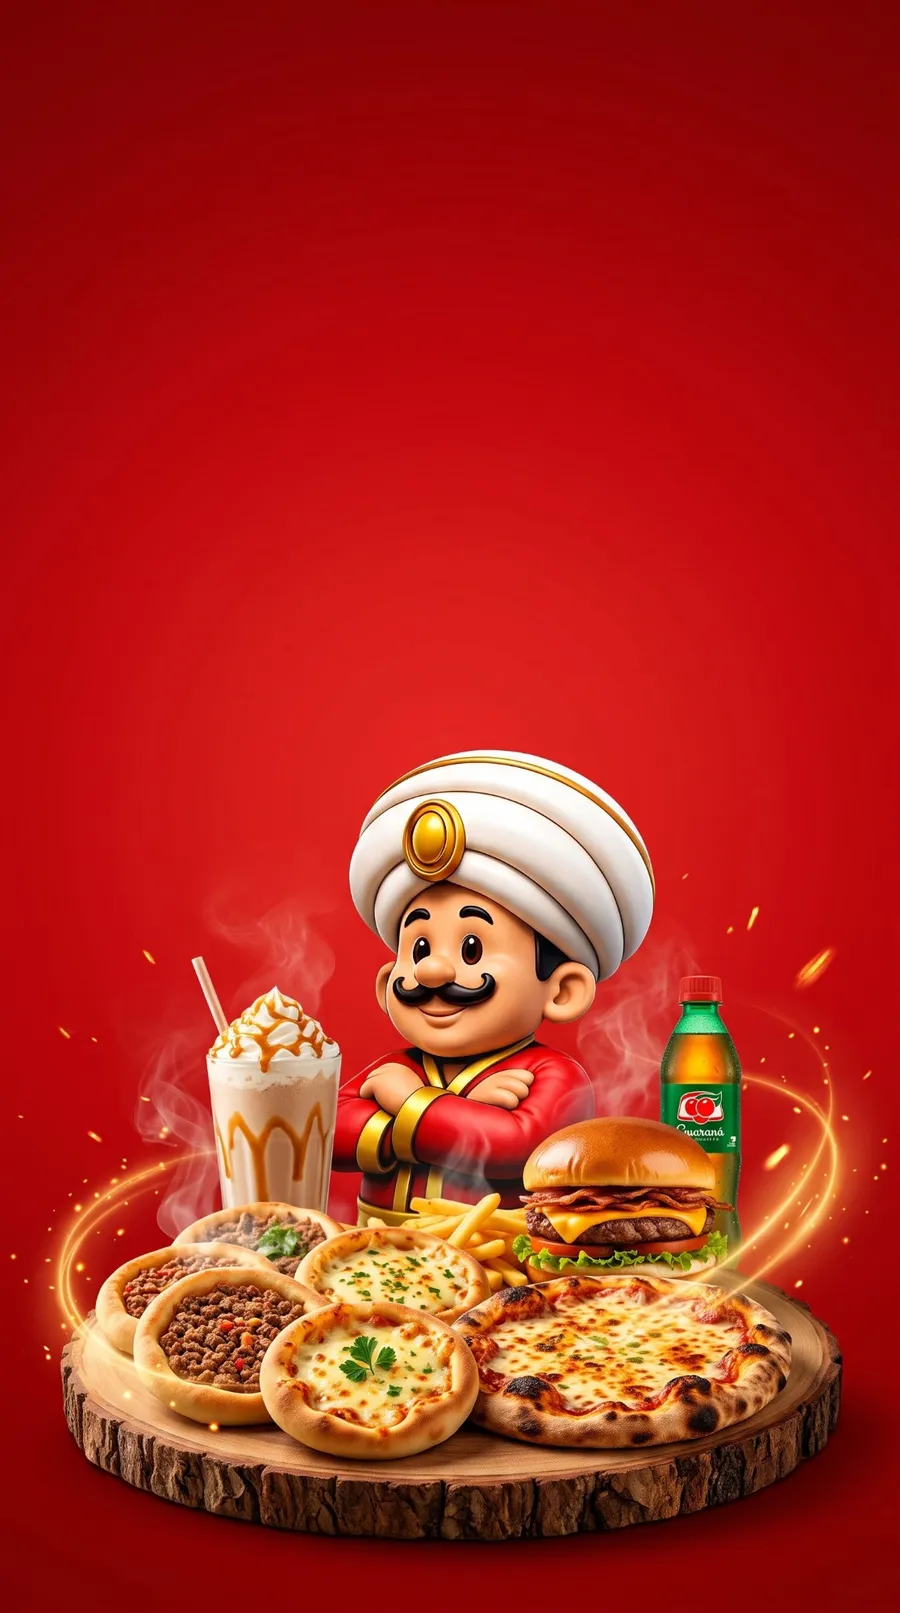
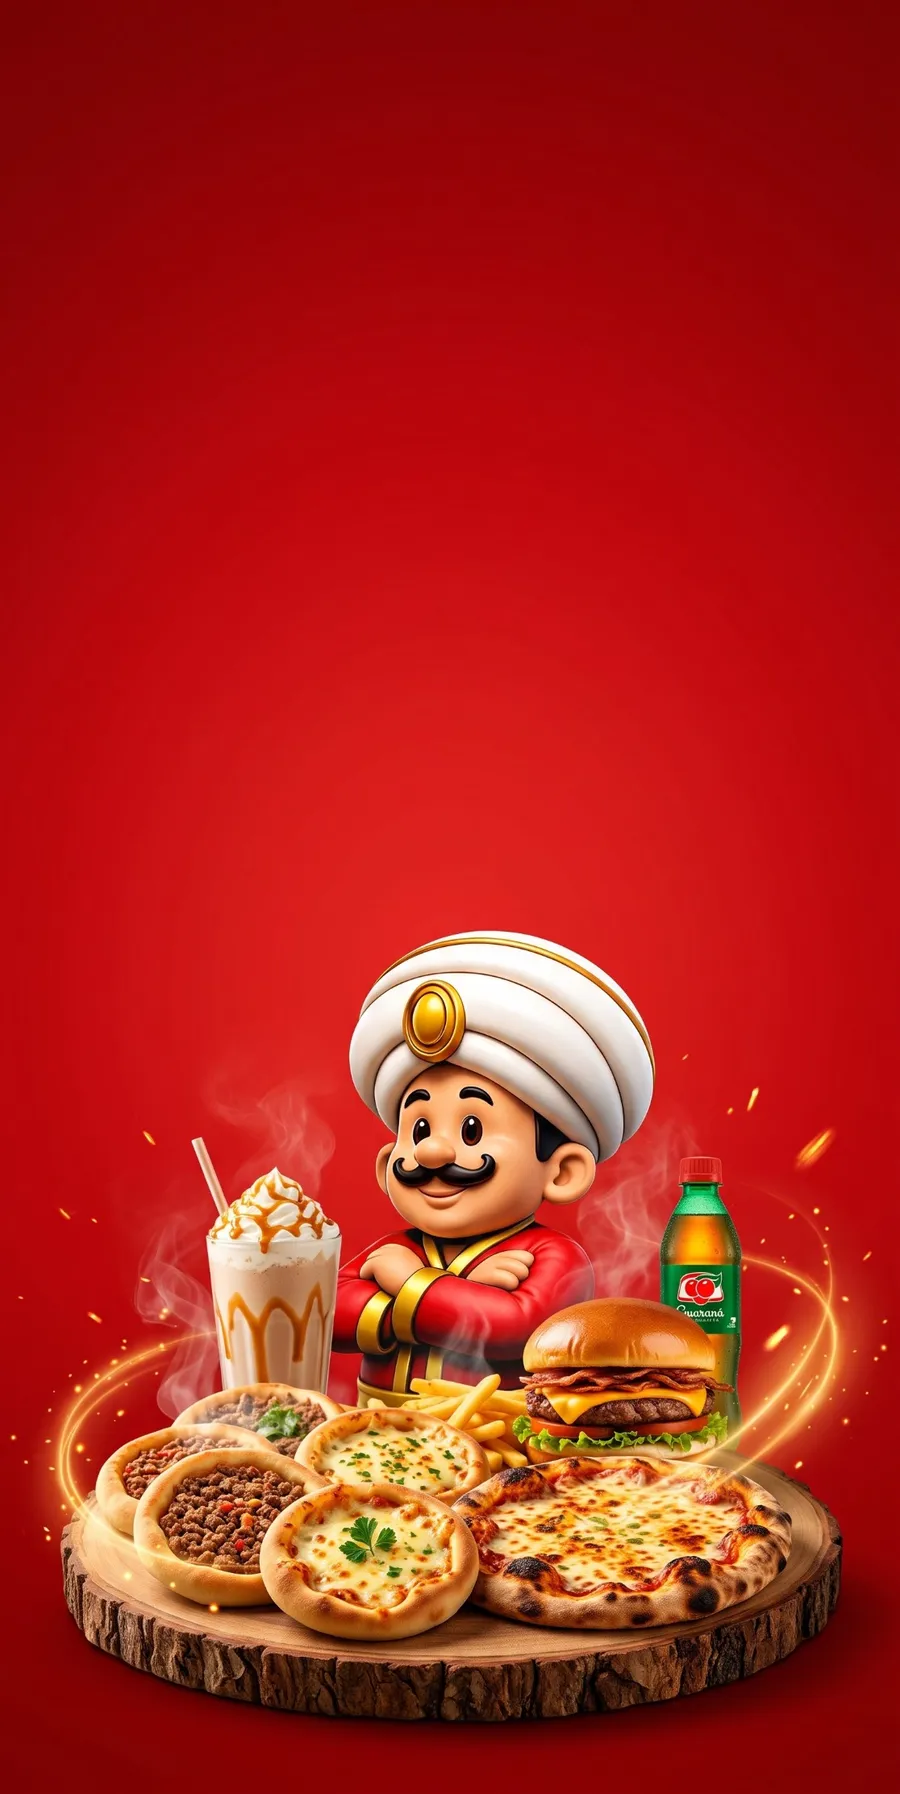
Topo do celular com mais respiro: vermelho de cima da arte esticado, sem emenda
Claude-Session: https://claude.ai/code/session_01Mef7ektEvz1H9wndxGszfe

Changed region(s): [[0.0311, 0.465, 0.9644, 0.9609], [0.8089, 0.558, 0.84, 0.589]]

diff --git a/src/components/site/Hero.tsx b/src/components/site/Hero.tsx
@@ -24,7 +24,7 @@ export function Hero() {
           src={heroMesaMobile}
           alt="O gênio da Rede da Esfiha de braços cruzados atrás de uma tábua com esfihas, pizza, hambúrguer, batata frita, milkshake e refrigerante"
           width={900}
-          height={1613}
+          height={1794}
           fetchPriority="high"
           className="absolute inset-0 h-full w-full object-cover object-bottom md:left-auto md:right-0 md:w-auto md:max-w-none md:object-contain md:[mask-image:linear-gradient(to_right,transparent,black_18%)]"
           // zoom out lento ao abrir a página: a arte começa aproximada e vai se afastando
@@ -44,7 +44,7 @@ export function Hero() {
         <path d="M0 60 L0 30 Q720 -20 1440 30 L1440 60 Z" fill="var(--color-champagne)" />
       </svg>
 
-      <div className="container-page relative flex min-h-[179vw] flex-col items-center justify-start pb-24 pt-7 text-center md:min-h-[min(56vw,calc(100svh-5rem))] md:items-start md:justify-center md:py-24 md:text-left">
+      <div className="container-page relative flex min-h-[199vw] flex-col items-center justify-start pb-24 pt-12 text-center md:min-h-[min(56vw,calc(100svh-5rem))] md:items-start md:justify-center md:py-24 md:text-left">
         {/* título com a proposta da casa (o nome já está no logo do cabeçalho) */}
         <motion.h1
           className="heading-display max-w-[20ch] text-balance md:max-w-[12ch] !text-[clamp(2.3rem,11vw,2.75rem)] !leading-[1.02] text-brand-white md:!text-[clamp(5rem,4.5vw,6.25rem)]"
